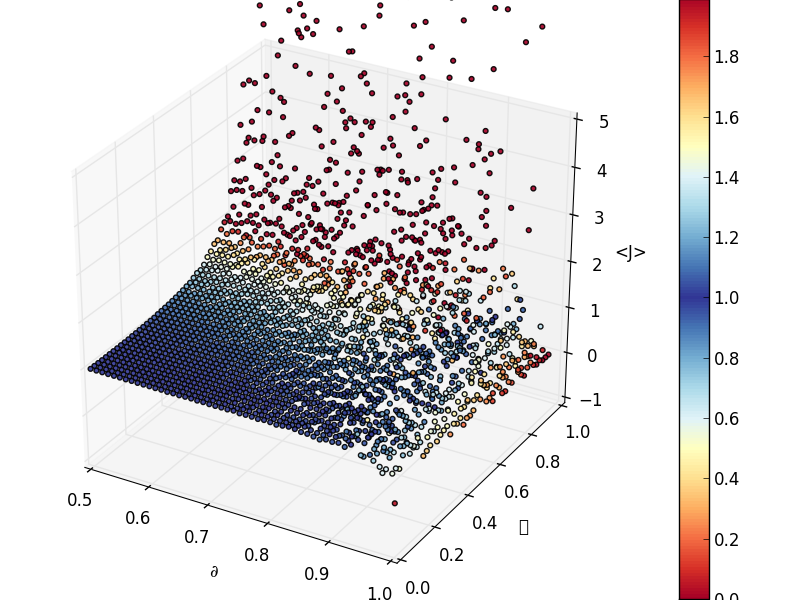
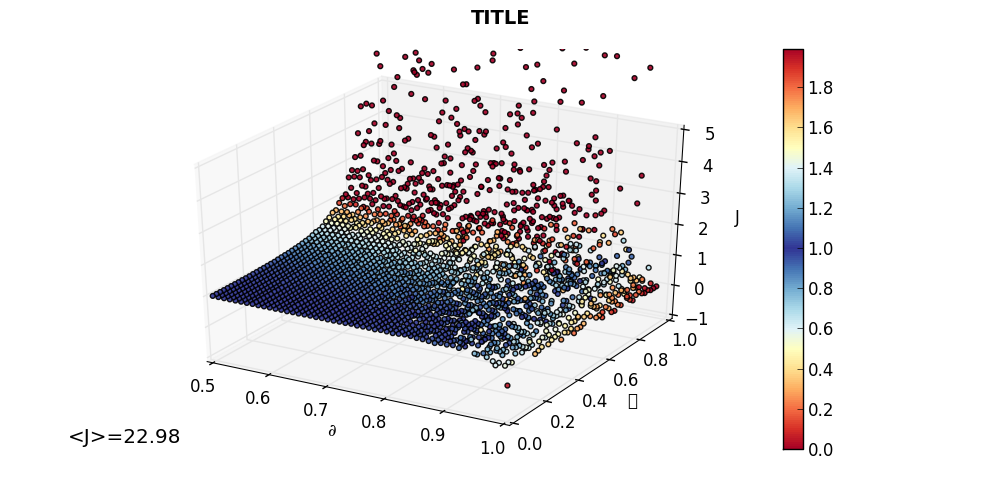
Implement the 3dscatter.py test.

diff --git a/scripts/plot/3dscatter.py b/scripts/plot/3dscatter.py
@@ -2,6 +2,10 @@ import csv
 from mpl_toolkits.mplot3d import Axes3D
 import numpy
 import matplotlib
+
+# Run without the window server.
+matplotlib.use('Agg')
+
 import matplotlib.pyplot as plt
 import itertools
 from matplotlib import cm
@@ -9,6 +13,13 @@ from matplotlib.ticker import LinearLocator, FormatStrFormatter
 from math import log
 from math import atan as arctan
 from sys import stdin
+import argparse
+
+
+
+parser = argparse.ArgumentParser()
+parser.add_argument("name")
+args = parser.parse_args()
 
 reader = csv.reader(stdin)
 values = itertools.chain(reader)
@@ -34,8 +45,11 @@ def drange(start, stop, step):
 
 col = numpy.array(map(RYB,map(colorBy,z)))
 
-fig = plt.figure()
-ax = Axes3D(fig)
+fig = plt.figure(figsize=(10,5))
+fig.suptitle(args.name,fontsize=14,fontweight='bold')
+ax = fig.add_subplot(111, projection='3d')
+
+ax.set_title('<J>=%s' % round(numpy.mean(z),2),position=(0,0),ha='center')
 
 p = ax.scatter(x,y,z,s=12,vmin=-1,vmax=1,c=col, cmap=RYB)
 fig.add_axes(ax)
@@ -48,8 +62,8 @@ ax.set_ylim(0,1)
 ax.set_zlim(-1,5)
 
 ax.set_xlabel(u"\u2202")
-ax.set_ylabel(u'\u03F5')
-ax.set_zlabel('<J>')
+ax.set_ylabel(u"\u0395")
+ax.set_zlabel('J')
 
 print "Axes:"
 print "%s: (%s)" % (header[0],ax.get_xlim())
@@ -58,5 +72,7 @@ print "%s: (%s)" % (header[2],ax.get_zlim())
 #fig.show()
 #import time
 #time.sleep(10)
+
+
 
 fig.savefig("plot.png")
